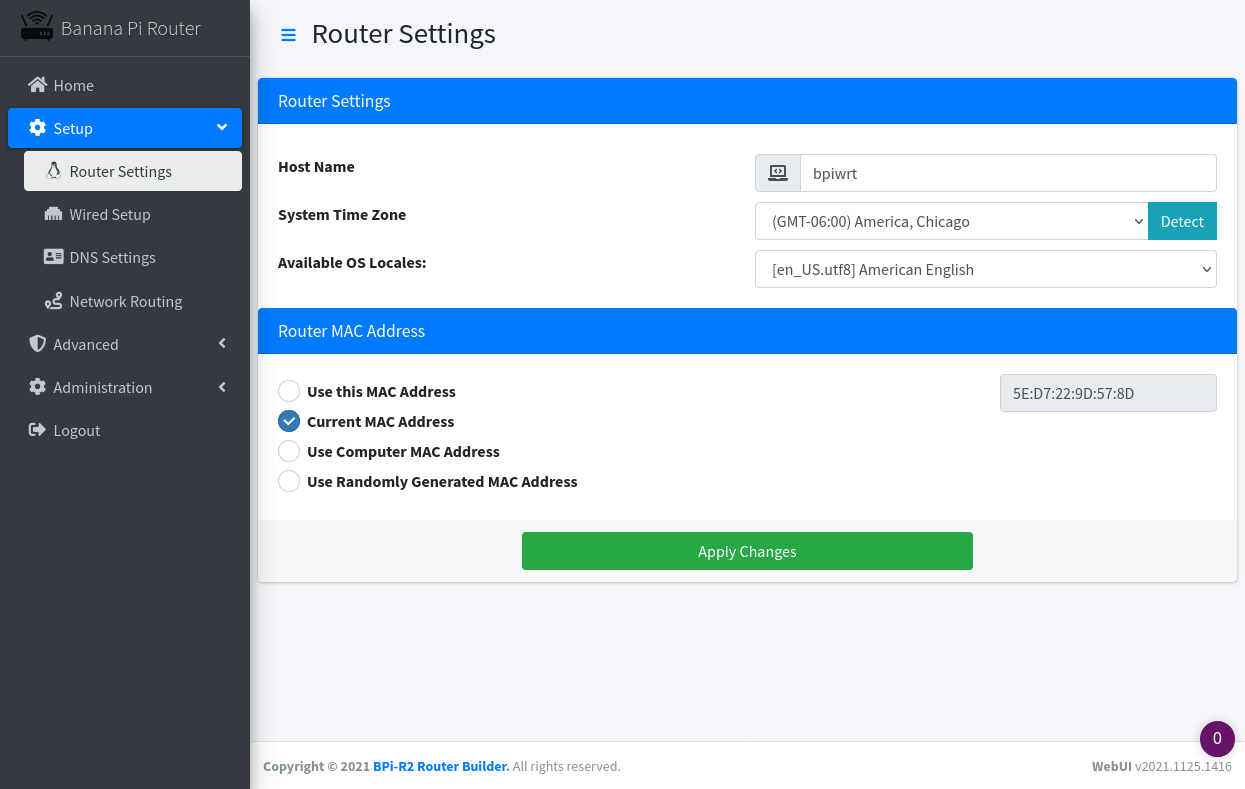
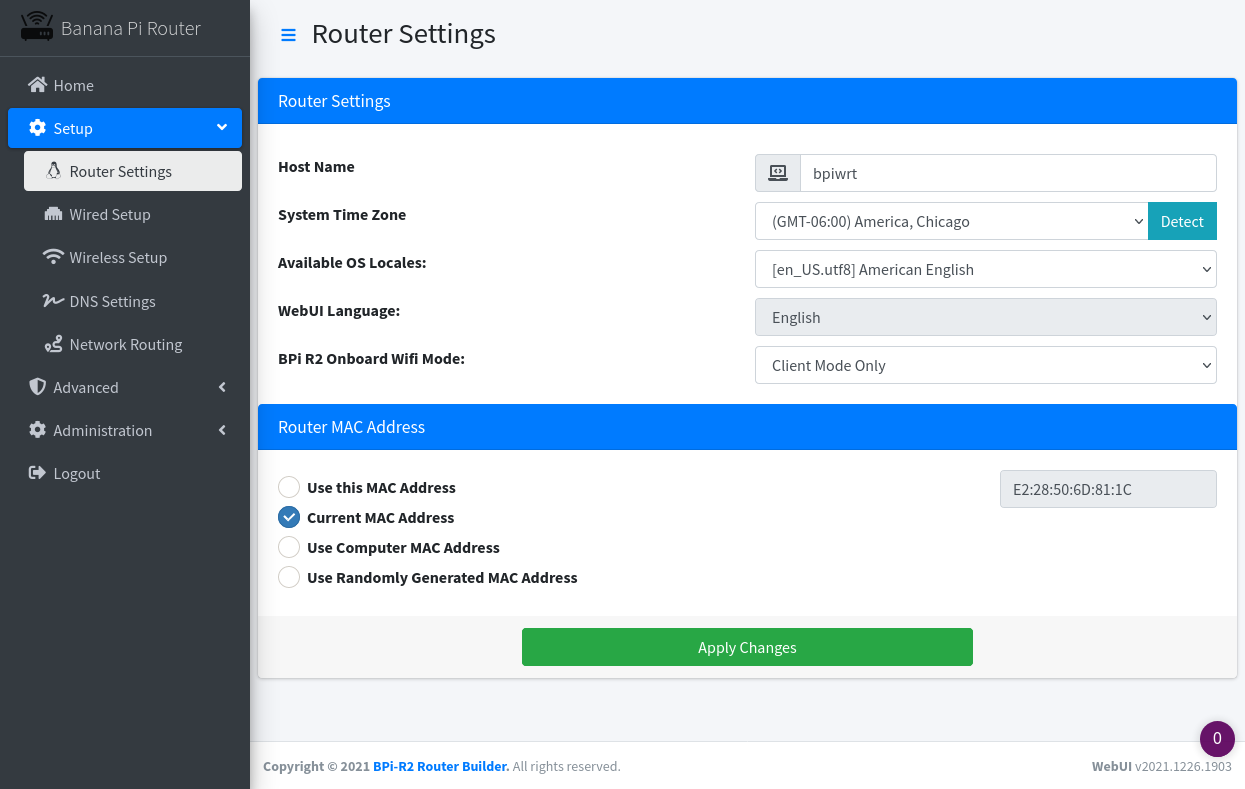
Upgraded Networking components

diff --git a/router/js/site-setup.js b/router/js/site-setup.js
@@ -103,6 +103,7 @@ function Init_Wired(iface)
 	page_url = '/setup/wired';
 
 	// Main screen setup and handlers:
+	$(".checkbox").bootstrapSwitch();
 	$("#op_mode").change(function() {
 		if ($(this).find("option:selected").val() == 'dhcp')
 		{
@@ -138,6 +139,7 @@ function Wired_Submit()
 		'dhcp_start': $("#dhcp_start").val(),
 		'dhcp_end':   $("#dhcp_end").val(),
 		'dhcp_lease': $("#dhcp_lease").val() + $("#dhcp_units").val(),
+		'firewalled': $("#firewalled").is(":checked") ? 'Y' : 'N',
 		'reboot':     reboot_suggested,
 	};
 	if ($("#dhcp_units").val() == "infinite")
@@ -157,7 +159,7 @@ function Wired_Submit()
 		$("#apply-modal").modal("show");
 
 	// Perform our AJAX request to change the WAN settings:
-	$.post('setup/wired', postdata, function(data) {
+	$.post('/setup/wired', postdata, function(data) {
 		if (data == "OK")
 			document.location.reload(true);
 		else if (data == "REBOOT")
@@ -505,6 +507,7 @@ function Settings_Apply()
 		'timezone': $("#timezone").val(),
 		'locale':	$("#locale").val(),
 		'mac':      $("#mac_addr").val(),
+		'ui_lang':  $("#webui_language").val(),
 		'onboard':  $("#onboard_wifi").find("option:selected").val()
 	};
 	//alert(JSON.stringify(postdata, null, 5)); return;
@@ -539,6 +542,7 @@ function Init_Wireless(iface)
 	page_url = '/setup/wireless';
 
 	// Main screen setup and handlers:
+	$(".checkbox").bootstrapSwitch();
 	$("#op_mode").change(function() {
 		mode = $(this).find("option:selected").val();
 		if (mode == 'disabled' || mode == "client_dhcp")

diff --git a/router/includes/setup-wired.php b/router/includes/setup-wired.php
@@ -23,6 +23,7 @@ if (isset($_POST['action']))
 	$ip_addr = option_ip('ip_addr');
 	$ip_mask = option_ip('ip_mask');
 	$reboot  = option('reboot', "/^(true|false)$/");
+	$firewalled = option("firewalled", "/^(Y|N)$/");
 
 	#################################################################################################
 	# If using DHCP on this interface, make sure addresses are valid:
@@ -57,10 +58,8 @@ if (isset($_POST['action']))
 	$bridged = array_diff( explode(" ", trim($_POST['bridge'])), array("undefined") );
 	if (empty($bridged))
 		die("[BRIDGE] ERROR: No interfaces specified in bridge configuration!");
-	$text = '
-allow-hotplug {iface}
-auto {iface}
-iface {iface} inet manual';
+	$text =  'auto {iface}' . "\n";
+	$text .= 'iface {iface} inet manual' . "\n";
 	if (count($bridged) > 1)
 	{
 		foreach ($bridged as $adapter)
@@ -79,18 +78,31 @@ iface {iface} inet manual';
 		$iface = $bridged[0];
 
 	#################################################################################################
+	# Decide what the interface configuration text will look like:
+	#################################################################################################
+	$text =  'auto ' . $iface . "\n";
+	$text .= 'iface ' . $iface . ' inet ' . ($_POST['action'] == 'dhcp' ? 'dhcp' : 'static') . "\n";
+	if ($_POST['action'] != 'dhcp')
+	{
+		$text .= '    address ' . $ip_addr . "\n";
+		$text .= '    netmask ' . $ip_mask . "\n";
+		if (!empty($_POST['gateway']) && $_POST['gateway'] != "0.0.0.0")
+			$text .= '    gateway ' . $_POST['ip_gate'] . "\n";
+	}
+	if ($_POST['action'] == 'bridged' && count($bridged) > 1)
+	{
+		$text .= '    bridge_ports ' . implode(" ", $bridged) . "\n";
+		$text .= '    bridge_fd 5' . "\n";
+		$text .= '    bridge_stp no' . "\n";
+	}
+	else if ($_POST['action'] != 'bridged')
+		$text .= '    masquerade yes' . "\n";
+	if ($firewalled)
+		$text .= '    firewall yes' . "\n";
+
+	#################################################################################################
 	# Output the network adapter configuration to the "/tmp" directory:
 	#################################################################################################
-	$text = '
-auto ' . $iface . '
-iface ' . $iface . ' inet ' . ($_POST['action'] == 'dhcp' ? 'dhcp' : 'static') . ($_POST['action'] != 'dhcp' ? '
-    address ' . $ip_addr . '
-    netmask ' . $ip_mask . (!empty($_POST['gateway']) && $_POST['gateway'] != "0.0.0.0" ? '
-    gateway ' . $_POST['ip_gate'] : '') : '') . ($_POST['action'] == 'bridged' && count($bridged) > 1 ? '
-    bridge_ports ' . implode(" ", $bridged) . '
-    bridge_fd 5
-    bridge_stp no' : '') . (in_array($iface, array('wan', 'br0')) ? '
-    post-up echo ' . ($iface == 'wan' ? '6' : '8') . ' > /sys/class/net/wan/queues/rx-0/rps_cpus' : '');
 	#echo '<pre>'; echo $text; exit;
 	$handle = fopen("/tmp/" . $iface, "w");
 	fwrite($handle, trim($text) . "\n");
@@ -188,6 +200,7 @@ foreach ($adapters as $tface)
 	if (!preg_match($exclude_regex, $tface) && !in_array($tface, $invalid))
 		$tmp[] = $tface;
 }
+#echo '<pre>'; print_r($tmp); exit;
 echo '
 		<div class="row">
 			<div class="col-6">
@@ -202,8 +215,23 @@ if (count($tmp) > 1)
 					<option value="bridged"', $netcfg['op_mode'] == 'bridged' ? ' selected="selected"' : '', '>Bridged Interfaces</option>';
 echo '
 				</select>
-			</div>
+			</div>';
+if (count($tmp) == 1)
+	echo '
+			<div class="row" style="margin-top: 5px">
+				<div class="col-12">
+					<div class="icheck-primary">
+						<input type="checkbox" id="firewalled"', isset($netcfg['firewalled']) ? ' checked="checked"' : '', '>
+						<label for="firewalled">Firewall Interface from Internet</label>
+					</div>
+				</div>
+			</div>';
+else
+	echo '
+			<input type="hidden" id="firewalled" />';
+echo '
 		</div>
+		<hr style="border-width: 2px" />
 		<div id="static_ip_div"', $netcfg['op_mode'] == 'dhcp' ? ' class="hidden"' : '', '>';
 
 ###################################################################################################

diff --git a/router/includes/setup-wireless.php b/router/includes/setup-wireless.php
@@ -23,9 +23,10 @@ if (isset($_POST['action']))
 	$ip_mask = option_ip('ip_mask');
 	$ip_gate = option_ip('ip_gate');
 	$reboot  = option('reboot', "/^(true|false)$/");
+	$firewalled = option("firewalled", "/^(Y|N)$/");
 
 	#################################################################################################
-	# Output the network adapter configuration to the "/tmp" directory:
+	# Decide what the interface configuration text will look like:
 	#################################################################################################
 	$text  = 'auto ' . $iface . "\n";
 	$text .= 'iface ' . $iface . ' inet ' . ($action == "disabled" ? 'manual' : ($action == 'client_static' || $action == 'ap' ? 'static' : 'dhcp')) . "\n";
@@ -41,7 +42,14 @@ if (isset($_POST['action']))
 		$text .= '    wpa_ssid "' . $wpa_ssid . '"' . "\n";
 		if (!empty($wpa_psk))
 			$text .= '    wpa_psk "' . $wpa_psk . '"' . "\n";
+		$text .= '    masquerade yes' . "\n";
 	}
+	if ($firewalled)
+		$text .= '    firewall yes' . "\n";
+		
+	#################################################################################################
+	# Output the network adapter configuration to the "/tmp" directory:
+	#################################################################################################
 	#echo '<pre>'; echo $text; exit;
 	$handle = fopen("/tmp/" . $iface, "w");
 	fwrite($handle, trim($text) . "\n");
@@ -78,6 +86,7 @@ if (isset($_POST['action']))
 ########################################################################################################
 $ifaces = array();
 $options = parse_options();
+#echo '<pre>'; print_r($options); exit;
 foreach (explode("\n", @trim(@shell_exec("iw dev | grep Interface | awk '{print $2}' | sort"))) as $tface)
 {
 	$include = $tface != "mt6625_0" && $tface != "ap0";
@@ -88,7 +97,6 @@ foreach (explode("\n", @trim(@shell_exec("iw dev | grep Interface | awk '{print 
 }
 $iface = isset($_GET['iface']) ? $_GET['iface'] : $ifaces[0];
 #echo '<pre>'; print_r($ifaces); exit;
-#echo '<pre>'; print_r($options); exit;
 $adapters = explode("\n", trim(@shell_exec("iw dev | grep Interface | awk '{print $2}'")));
 #echo '<pre>'; print_r($adapters); exit();
 $netcfg = get_mac_info($iface);
@@ -149,7 +157,7 @@ echo '
 		</div>';
 
 ###################################################################################################
-# Interface IP Address section
+# Wifi SSID, password and firewalled setting:
 ###################################################################################################
 echo '
 		<div id="client_mode_div"', ($netcfg['op_mode'] == 'dhcp' && isset($netcfg['wpa_ssid'])) || ($netcfg['op_mode'] == 'static' && !isset($netcfg['wpa_ssid'])) ? '' : ' class="hidden"', '>
@@ -186,6 +194,14 @@ echo '
 					</div>
 				</div>
 			</div>
+			<div class="row" style="margin-top: 5px">
+				<div class="col-12">
+					<div class="icheck-primary">
+						<input type="checkbox" id="firewalled"', isset($netcfg['firewall']) ? ' checked="checked"' : '', '>
+						<label for="firewalled">Firewall Interface from Internet</label>
+					</div>
+				</div>
+			</div>
 		</div>';
 
 ###################################################################################################
@@ -195,7 +211,7 @@ $subnet = isset($ifcfg['inet']) ? $ifcfg['inet'] : '';
 if (empty($subnet))
 	$subnet = "192.168." . strval( (int) trim(@shell_exec("iw dev " . $iface . " info | grep ifindex | awk '{print \$NF}'")) + 10 ) . ".1";
 echo '
-		<div id="static_ip_div"', ($netcfg['op_mode'] == 'dhcp' && isset($netcfg['wpa_ssid'])) || ($netcfg['op_mode'] == 'static' && !isset($netcfg['wpa_ssid'])) ? '' : ' class="hidden"', '>
+		<div id="static_ip_div"', ($netcfg['op_mode'] == 'static' && isset($netcfg['wpa_ssid'])) ? '' : ' class="hidden"', '>
 			<hr style="border-width: 2px" />
 			<div class="row" style="margin-top: 5px">
 				<div class="col-6">

diff --git a/router/includes/setup-settings.php b/router/includes/setup-settings.php
@@ -35,11 +35,12 @@ if (isset($_POST['action']))
 		// Set the change to the onboard wifi mode:
 		$option = parse_options();
 		$tmp = option_allowed('onboard_wifi', array('1', 'A'));
-		if ($tmp != $option['onboard_wifi'])
-		{
-			$option['onboard_wifi'] = $tmp; 
-			apply_options(false);
-		}
+		$option['webui_lang'] = option_allowed('ui_lang', array('english'));
+		$restart = ($tmp != $option['onboard_wifi']);
+		$option['onboard_wifi'] = $tmp; 
+		apply_options();
+		if ($restart)
+			@shell_exec("/opt/bpi-r2-router-builder/helpers/router-helper.sh systemctl restart networking");
 
 		// Set the other options:
 		$mac = option_mac('mac');
@@ -59,6 +60,7 @@ if (isset($_POST['action']))
 ###########################################################################################
 # Main code for this page:
 ###########################################################################################
+$option = parse_options();
 site_menu();
 #echo '<pre>'; print_r($current); exit;
 echo '
@@ -127,9 +129,23 @@ echo '
 		</div>';
 
 ###########################################################################################
+# WebUI Language Setting:
+###########################################################################################
+echo '
+		<div class="row" style="margin-top: 10px">
+			<div class="col-6">
+				<label for="webui_language">WebUI Language:</label></td>
+			</div>
+			<div class="col-6 input-group">
+				<select class="form-control" id="webui_language" disabled="disabled">
+					<option value="english" selected="selected">English</option>
+				</select>
+			</div>
+		</div>';
+
+###########################################################################################
 # Onboard Wifi Setting:
 ###########################################################################################
-$option = parse_options();
 echo '
 		<div class="row" style="margin-top: 10px">
 			<div class="col-6">

diff --git a/router/includes/subs/site.php b/router/includes/subs/site.php
@@ -441,7 +441,7 @@ function option_mac($name)
 	return $tmp;
 }
 
-function apply_options($reload = true)
+function apply_options()
 {
 	global $options, $options_changed;
 	#if (!$options_changed)
@@ -458,11 +458,8 @@ function apply_options($reload = true)
 	$handle = fopen("/tmp/router-settings", "w");
 	fwrite($handle, $text);
 	fclose($handle);
-	if ($reload)
-	{
-		@shell_exec("/opt/bpi-r2-router-builder/helpers/router-helper.sh firewall reload");
-		if (isset($options['use_isp']) && isset($options['dns1']))
-			@shell_exec("/opt/bpi-r2-router-builder/helpers/router-helper.sh dns " . ($options['use_isp'] == 'Y' ? 'config' : $options['dns1'] . ' ' . $options['dns2']));
-	}
+	@shell_exec("/opt/bpi-r2-router-builder/helpers/router-helper.sh firewall reload");
+	if (isset($options['use_isp']) && isset($options['dns1']))
+		@shell_exec("/opt/bpi-r2-router-builder/helpers/router-helper.sh dns " . ($options['use_isp'] == 'Y' ? 'config' : $options['dns1'] . ' ' . $options['dns2']));
 	return "OK";
 }
